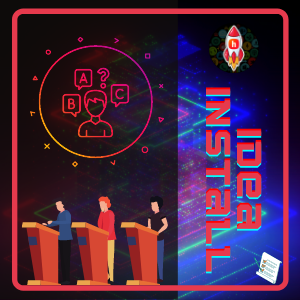
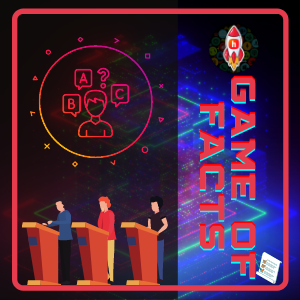
quiz poster added

Changed region(s): [[0.66, 0.24, 0.9, 0.93]]

diff --git a/index.html b/index.html
@@ -9,6 +9,7 @@
     <meta name="viewport" content="width=device-width, initial-scale=1">
     <link href="https://unpkg.com/tailwindcss@^1.0/dist/tailwind.min.css" rel="stylesheet">
     <link rel="stylesheet" href="styles.css">
+    <link rel="canonical" href="https://getbootstrap.com/docs/5.0/examples/pricing/">
     <script src="https://kit.fontawesome.com/a076d05399.js"> </script>
 </head>
 
@@ -73,7 +74,7 @@
         <h2 class="poster_text" id="events"> <b> OUR </b><b class="r_color">EVENTS <br><br></b></h2>
 
         <div class="container">
-            <div class="wrapper">
+            <div class="wrapper" style="display: inline-block;">
                
                 <div class="event-card">
                     <div class="event-card-struct">
@@ -104,7 +105,7 @@
                         </div>
                     </div>
                 </div>
-               
+                
                 <div class="event-card">
                     <div class="event-card-struct">
                         <div class="event-card-front">
@@ -119,7 +120,21 @@
                         </div>
                     </div>
                 </div>
-                
+            
+                <div class="event-card">
+                    <div class="event-card-struct">
+                        <div class="event-card-front">
+                            <img class="event" src="img/quiz.png">
+                        </div>
+                        <div class="event-card-back" style="background-image:url(img/quiz_back.png);">
+                            <h2 class="card_content" style="padding: 4px 8px;">
+                                If You have got it, flaunt it!  
+                            </h2>
+                            <button class="register" onclick="notopen()">Register Here</button>
+                        </div>
+                    </div>
+                </div>
+
                 <div class="event-card">
                     <div class="event-card-struct">
                         <div class="event-card-front">
@@ -135,7 +150,6 @@
                         </div>
                     </div>
                 </div>
-                
             </div><!-- /wrapper -->
         </div><!-- /container -->
     </section>

diff --git a/styles.css b/styles.css
@@ -149,7 +149,6 @@ nav #icon{
   align-items: center;
 }
 
-
 /*section2-3 event cards*/
 .card p {
   font-family: "Poppins";
@@ -160,6 +159,7 @@ nav #icon{
   margin: auto;
   text-align: center;
   padding: 10px;
+  align-items: center;
 }
 div {
   margin: 0px;
